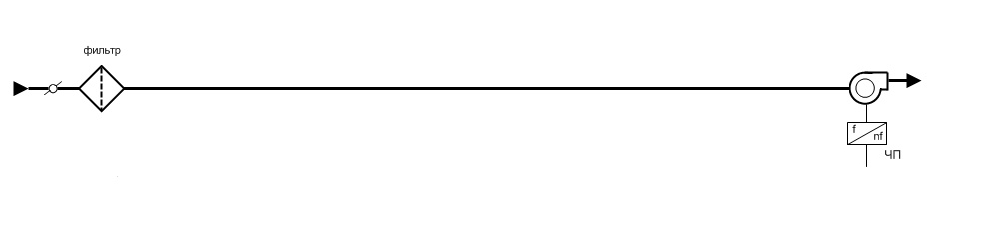
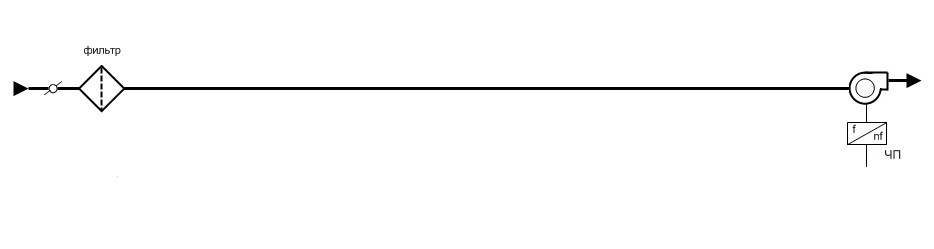
add contour images

Changed region(s): [[0.0, 0.253, 0.9936, 0.4498], [0.8383, 0.4779, 0.9625, 0.6466], [0.0621, 0.1687, 0.1242, 0.2249]]

diff --git a/frontend/src/components/Supply/components/Scheme.vue b/frontend/src/components/Supply/components/Scheme.vue
@@ -1,28 +1,152 @@
 <template>
-<div>
-	<img v-bind:src="require(`../images/${backgroundImage}.jpg`)" class="schemeContainer"/>
-</div>
+	<div>
+		<div :class="`schemeContainer ${fcCheckbox ? 'schemeBgImg1' : 'schemeBgImg2'}`">
+			<div
+				class="contoureImg contourOne"
+				:style="{ backgroundImage: `url(${images.contourOne[contourOneSelect]})` }"
+			></div>
+			<div
+				class="contoureImg contourTwo"
+				:style="{ backgroundImage: `url(${images.contourTwo[contourTwoSelect]})` }"
+			></div>
+			<div
+				class="contoureImg contourThree"
+				:style="{ backgroundImage: `url(${images.contourThree[contourThreeSelect]})` }"
+			></div>
+			<div
+				class="contoureImg contourFour"
+				:style="{ backgroundImage: `url(${images.contourFour[contourFourSelect]})` }"
+			></div>
+			<div
+				class="contoureImg contourFive"
+				:style="{ backgroundImage: `url(${images.contourFive[contourFiveSelect]})` }"
+			></div>
+		</div>
+	</div>
 </template>
 
 <script>
-import { mapState } from 'vuex'
+// import { mapState } from 'vuex'
 
 export default {
 	name: 'Scheme',
-	computed: mapState({
-		currentSupply: state => state.currentSupply,
-		ventUnit: (state) => state.veqntUnits[state.currentSupply],
-		backgroundImage: (state) => {
-			const fcCheckbox = state.ventUnits[state.currentSupply]['C5']
-			return fcCheckbox ? 'main_1' : 'main_2'
+	data() {
+		return {
+			images: {
+				contourOne: {
+					['0']: '',
+					['1']: require('../images/1_cont.jpg'),
+					['2']: require('../images/rekup_rotor.jpg'),
+					['3']: require('../images/rekup_afreez.jpg'),
+					['4']: '',
+					['5']: require('../images/elektr.jpg'),
+				},
+				contourTwo: {
+					['0']: '',
+					['1']: require('../images/1_cont.jpg'),
+					['2']: require('../images/ohl.jpg'),
+					['3']: require('../images/ohl _freon.jpg'),
+					['4']: '',
+					['5']: require('../images/elektr.jpg'),
+				},
+				contourThree: {
+					['0']: '',
+					['1']: require('../images/2_cont.jpg'),
+					['2']: require('../images/ohl.jpg'),
+					['3']: require('../images/ohl _freon.jpg'),
+				},
+				contourFour: {
+					['0']: '',
+					['1']: require('../images/2_cont.jpg'),
+					['2']: require('../images/uvl2.jpg'),
+					['3']: require('../images/uvl.jpg'),
+				},
+				contourFive: {
+					['0']: '',
+					['1']: require('../images/2_cont.jpg'),
+					['2']: require('../images/uvl2.jpg'),
+					['3']: require('../images/uvl.jpg'),
+				},
+			},
 		}
-	}),
+	},
+	computed: {
+		currentSupply() {
+			return this.$store.getters.currentSupply
+		},
+
+		ventUnit() {
+			return this.$store.getters.ventSupplyUnit
+		},
+
+		fcCheckbox() {
+			return this.$store.getters.ventSupplyUnit['C5']
+		},
+
+		contourOneSelect() {
+			return this.$store.getters.ventSupplyUnit['C11']
+		},
+
+		contourTwoSelect() {
+			return this.$store.getters.ventSupplyUnit['C21']
+		},
+
+		contourThreeSelect() {
+			return this.$store.getters.ventSupplyUnit['C31']
+		},
+
+		contourFourSelect() {
+			return this.$store.getters.ventSupplyUnit['C41']
+		},
+
+		contourFiveSelect() {
+			return this.$store.getters.ventSupplyUnit['C51']
+		},
+	},
 }
 </script>
 
 <style scoped>
 .schemeContainer {
-	width: 1000px;
+	width: 934px;
 	height: 250px;
+	position: relative;
+	background-repeat: no-repeat;
+	background-color: white;
+}
+
+.schemeBgImg1 {
+	background-image: url('../images/main_1.jpg');
+}
+
+.schemeBgImg2 {
+	background-image: url('../images/main_2.jpg');
+}
+
+.contoureImg {
+	width: 64px;
+	height: 162px;
+	position: absolute;
+	top: 28px;
+}
+
+.contourOne {
+	left: 160px;
+}
+
+.contourTwo {
+	left: 305px;
+}
+
+.contourThree {
+	left: 450px;
+}
+
+.contourFour {
+	left: 590px;
+}
+
+.contourFive {
+	left: 730px;
 }
 </style>

diff --git a/frontend/src/components/Supply/components/SensorsCheckboxes.vue b/frontend/src/components/Supply/components/SensorsCheckboxes.vue
@@ -1,9 +1,9 @@
 <template>
 	<div class="sensorCheckboxes">
-
 		<b-form-checkbox
 			id="C20"
 			name="C20"
+			size="sm"
 			class="sensorCheckbox"
 			:checked="ventUnit['C20']"
 			@change.native="setCheckbox"
@@ -13,6 +13,7 @@
 		<b-form-checkbox
 			id="C8"
 			name="C8"
+			size="sm"
 			class="sensorCheckbox"
 			:checked="ventUnit['C8']"
 			@change.native="setCheckbox"
@@ -22,6 +23,7 @@
 		<b-form-checkbox
 			id="C9"
 			name="C9"
+			size="sm"
 			class="sensorCheckbox"
 			:checked="ventUnit['C9']"
 			@change.native="setCheckbox"
@@ -31,13 +33,13 @@
 		<b-form-checkbox
 			id="C10"
 			name="C10"
+			size="sm"
 			class="sensorCheckbox"
 			:checked="ventUnit['C10']"
 			@change.native="setCheckbox"
 		>
-			датчик CO 
+			датчик CO
 		</b-form-checkbox>
-
 	</div>
 </template>
 
@@ -48,9 +50,10 @@ import { mapState } from 'vuex'
 export default {
 	name: 'SensorsCheckboxes',
 	computed: mapState({
-		currentSupply: state => state.currentSupply,
-		ventUnit: state => state.ventUnits[state.currentSupply],
+		currentSupply: (state) => state.currentSupply,
+		ventUnit: (state) => state.ventUnits[state.currentSupply],
 	}),
+
 	methods: {
 		setCheckbox(event) {
 			this.$store.commit(mutations.SET_FIELD, {
@@ -63,14 +66,16 @@ export default {
 </script>
 
 <style scoped>
-	.sensorCheckboxes {
-		width: 120px;
-		margin-right: 30px;
-	}
+.sensorCheckboxes {
+	min-width: 120px;
+	margin-right: 30px;
+	flex: 0 0 120px;
+}
 
-	.sensorCheckbox {
-		width: 100%;
-		font-size: 12px;
-		text-align: left;
-	}
+.sensorCheckbox {
+	width: 100%;
+	min-height: 42px;
+	text-align: left;
+	margin-bottom: 5px;
+}
 </style>

diff --git a/frontend/src/components/Supply/components/MotorCheckboxes.vue b/frontend/src/components/Supply/components/MotorCheckboxes.vue
@@ -1,9 +1,9 @@
 <template>
 	<div class="motorCheckboxes">
-
 		<b-form-checkbox
 			id="C5"
 			name="C5"
+			size="sm"
 			class="motorCheckbox"
 			:checked="ventUnit['C5']"
 			@change.native="setCheckbox"
@@ -13,6 +13,7 @@
 		<b-form-checkbox
 			id="C6"
 			name="C6"
+			size="sm"
 			class="motorCheckbox"
 			:checked="ventUnit['C6']"
 			@change.native="setCheckbox"
@@ -22,13 +23,13 @@
 		<b-form-checkbox
 			id="C7"
 			name="C7"
+			size="sm"
 			class="motorCheckbox"
 			:checked="ventUnit['C7']"
 			@change.native="setCheckbox"
 		>
 			выключатель безопасности
 		</b-form-checkbox>
-
 	</div>
 </template>
 
@@ -39,8 +40,8 @@ import { mapState } from 'vuex'
 export default {
 	name: 'MotorCheckboxes',
 	computed: mapState({
-		currentSupply: state => state.currentSupply,
-		ventUnit: state => state.ventUnits[state.currentSupply],
+		currentSupply: (state) => state.currentSupply,
+		ventUnit: (state) => state.ventUnits[state.currentSupply],
 	}),
 	methods: {
 		setCheckbox(event) {
@@ -54,14 +55,13 @@ export default {
 </script>
 
 <style scoped>
-	.motorCheckboxes {
-		width: 140px;
-		align-self: flex-end;
-		font-size: 12px;
-	}
+.motorCheckboxes {
+	width: 140px;
+	align-self: flex-end;
+}
 
-	.motorCheckbox {
-		margin-bottom: 5px;
-		text-align: left;
-	}
+.motorCheckbox {
+	margin-bottom: 5px;
+	text-align: left;
+}
 </style>

diff --git a/frontend/src/components/Supply/components/ConfigSelect.vue b/frontend/src/components/Supply/components/ConfigSelect.vue
@@ -21,8 +21,8 @@ import { mapState } from 'vuex'
 export default {
 	name: 'MotorCheckboxes',
 	computed: mapState({
-		currentSupply: state => state.currentSupply,
-		ventUnit: state => state.ventUnits[state.currentSupply],
+		currentSupply: (state) => state.currentSupply,
+		ventUnit: (state) => state.ventUnits[state.currentSupply],
 	}),
 	// props: {
 	// 	msg: String,

diff --git a/frontend/src/components/Supply/components/ContourEquipment.vue b/frontend/src/components/Supply/components/ContourEquipment.vue
@@ -70,8 +70,8 @@ import { mapState } from 'vuex'
 export default {
 	name: 'ContourEquipment',
 	computed: mapState({
-		currentSupply: state => state.currentSupply,
-		ventUnit: state => state.ventUnits[state.currentSupply],
+		currentSupply: (state) => state.currentSupply,
+		ventUnit: (state) => state.ventUnits[state.currentSupply],
 	}),
 	props: {
 		fieldsIds: {

diff --git a/frontend/src/components/Supply/Supply.vue b/frontend/src/components/Supply/Supply.vue
@@ -5,7 +5,7 @@
 			<MotorCheckboxes />
 		</div>
 		<div class="lowerBlock">
-		<SensorsCheckboxes />
+			<SensorsCheckboxes />
 			<Modules />
 		</div>
 	</div>
@@ -35,7 +35,8 @@ export default {
 </script>
 
 <style scoped>
-	.sypplyUpperBlock, .lowerBlock {
-		display: flex;
-	}
+.sypplyUpperBlock,
+.lowerBlock {
+	display: flex;
+}
 </style>

diff --git a/frontend/src/components/Supply/components/Module.vue b/frontend/src/components/Supply/components/Module.vue
@@ -11,7 +11,9 @@
 		>
 		</b-form-select>
 		<div v-if="contour[contourOrder][getVentUnit[moduleId]] !== null">
-			<ContourEquipment v-bind:fieldsIds="{ ...contour[contourOrder][getVentUnit[moduleId]] }" />
+			<ContourEquipment
+				v-bind:fieldsIds="{ ...contour[contourOrder][getVentUnit[moduleId]] }"
+			/>
 		</div>
 	</div>
 </template>
